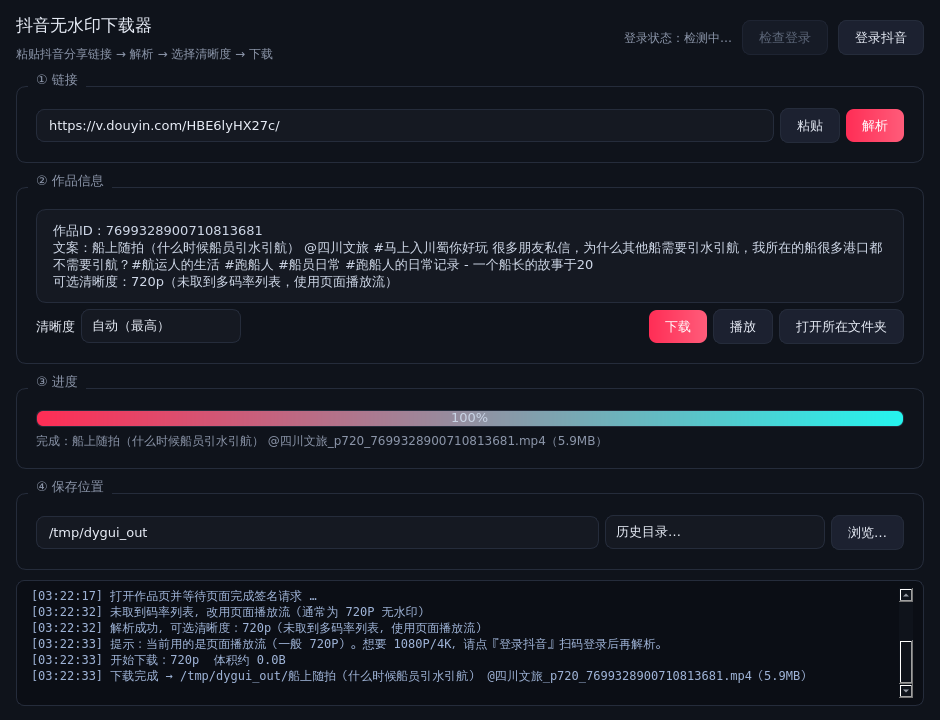
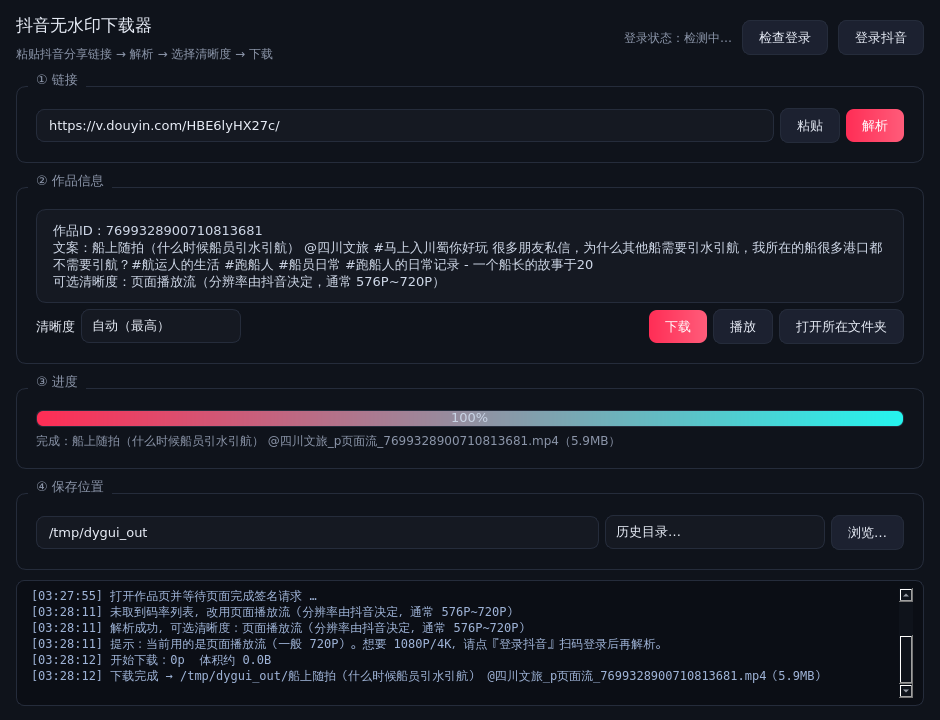
v2.2：兜底流不再谎报 720p（如实标注页面流）、短链解析+登录状态+样式修复

diff --git a/app.py b/app.py
@@ -23,7 +23,7 @@ sys.path.insert(0, HERE)
 
 APP_NAME = "DouyinDownloader"
 APP_TITLE = "抖音无水印下载器"
-VERSION = "2.1"
+VERSION = "2.2"
 
 # ---------------- 配置 ----------------
 def app_dir():
@@ -162,14 +162,15 @@ def run_cli(argv):
             print("[2/3] 未取到码率列表，使用页面播放流")
             meta["desc"] = (m.get("desc") or m.get("title") or "").strip()
             meta["author"] = (m.get("author") or "").strip()
-            ratios = [{"gear": "page", "height": 720, "size": 0,
+            ratios = [{"gear": "page", "height": 0, "size": 0,
                        "url": res["fallback_url"], "urls": [res["fallback_url"]], "score": 0}]
         else:
             print("错误: 解析失败（可能需要先在本程序里点『登录抖音』扫码登录）")
             return 1
         pick = eng.choose(ratios, quality)
-        print("       可选: %s" % ", ".join(sorted({str(r.get("height")) + "p" for r in ratios})))
-        print("[3/3] 下载 %sp …" % (pick.get("height") or "?"))
+        hs = sorted({"%sp" % r.get("height") for r in ratios if r.get("height")})
+        print("       可选: %s" % (", ".join(hs) or "页面播放流（分辨率由抖音决定）"))
+        print("[3/3] 下载 %s …" % (("%sp" % pick.get("height")) if pick.get("height") else "页面流"))
         last = [0]
 
         def prog(got, total, speed):
@@ -266,14 +267,14 @@ def run_gui(test_hook=None):
                     s = eng.summarize(res["detail"])
                     self.ok.emit({"meta": s, "ratios": s["ratios"], "mode": "detail"})
                 elif res.get("fallback_url"):
-                    self.log.emit("未取到码率列表，改用页面播放流（通常为 720P 无水印）")
+                    self.log.emit("未取到码率列表，改用页面播放流（分辨率由抖音决定，通常 576P~720P）")
                     u = res["fallback_url"]
                     pm = res.get("meta") or {}
                     self.ok.emit({"meta": {"aweme_id": aweme_id,
                                            "desc": (pm.get("desc") or pm.get("title") or "").strip(),
                                            "author": (pm.get("author") or "").strip(),
-                                           "height": 720, "duration": 0},
-                                  "ratios": [{"gear": "page", "height": 720, "size": 0,
+                                           "height": 0, "duration": 0},
+                                  "ratios": [{"gear": "page", "height": 0, "size": 0,
                                               "url": u, "urls": [u], "score": 0}],
                                   "mode": "page"})
                 else:
@@ -538,10 +539,10 @@ def run_gui(test_hook=None):
             self.meta = pack["meta"]
             self.ratios = pack["ratios"]
             self.mode = pack.get("mode")
-            hs = sorted({r.get("height") or 0 for r in self.ratios}, reverse=True)
-            label = " / ".join("%dp" % h for h in hs if h) or "未知"
+            hs = sorted({r.get("height") or 0 for r in self.ratios if r.get("height")}, reverse=True)
+            label = " / ".join("%dp" % h for h in hs) or "页面播放流"
             if pack.get("mode") == "page":
-                label += "（未取到多码率列表，使用页面播放流）"
+                label = "页面播放流（分辨率由抖音决定，通常 576P~720P）"
             info = []
             if self.meta.get("aweme_id"):
                 info.append("作品ID：%s" % self.meta["aweme_id"])
@@ -587,8 +588,9 @@ def run_gui(test_hook=None):
             self.btn_open.setEnabled(False)
             self.btn_folder.setEnabled(False)
             self.pb.setValue(0)
-            self.lb_status.setText("开始下载 %dp …" % (pick.get("height") or 0))
-            self.log("开始下载：%dp  体积约 %s" % (pick.get("height") or 0,
+            qlabel = ("%dp" % pick["height"]) if pick.get("height") else "页面流"
+            self.lb_status.setText("开始下载 %s …" % qlabel)
+            self.log("开始下载：%s  体积约 %s" % (qlabel,
                                              dycore.human_size(pick.get("size") or 0)))
             self.dw = DownloadWorker(pick, out_dir, self.meta, True)
             self.dw.prog.connect(self.on_prog)

diff --git a/engine.py b/engine.py
@@ -410,7 +410,7 @@ def download_entry(entry, out_dir, meta, progress=None, should_stop=None):
     name_stem = re.split(r"\s+-\s+|#|发布于抖音", name_stem)[0].strip(" _")[:48]
     if not name_stem:
         name_stem = "douyin"
-    name = "%s_p%s_%s.mp4" % (name_stem, entry.get("height") or "?", item["aweme_id"])
+    name = "%s_p%s_%s.mp4" % (name_stem, entry.get("height") or "页面流", item["aweme_id"])
     path = unique_path(os.path.join(out_dir, name))
     tmp = path + ".part"
     hdr = {"User-Agent": UA, "Referer": "https://www.douyin.com/",
